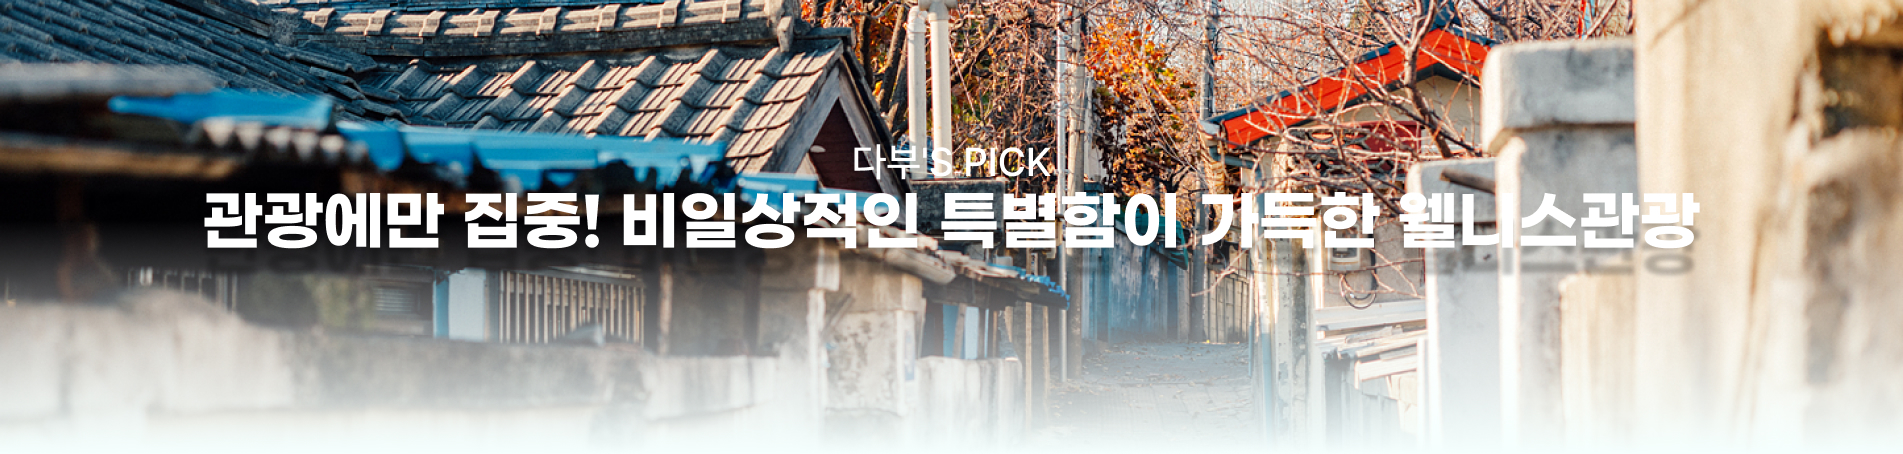
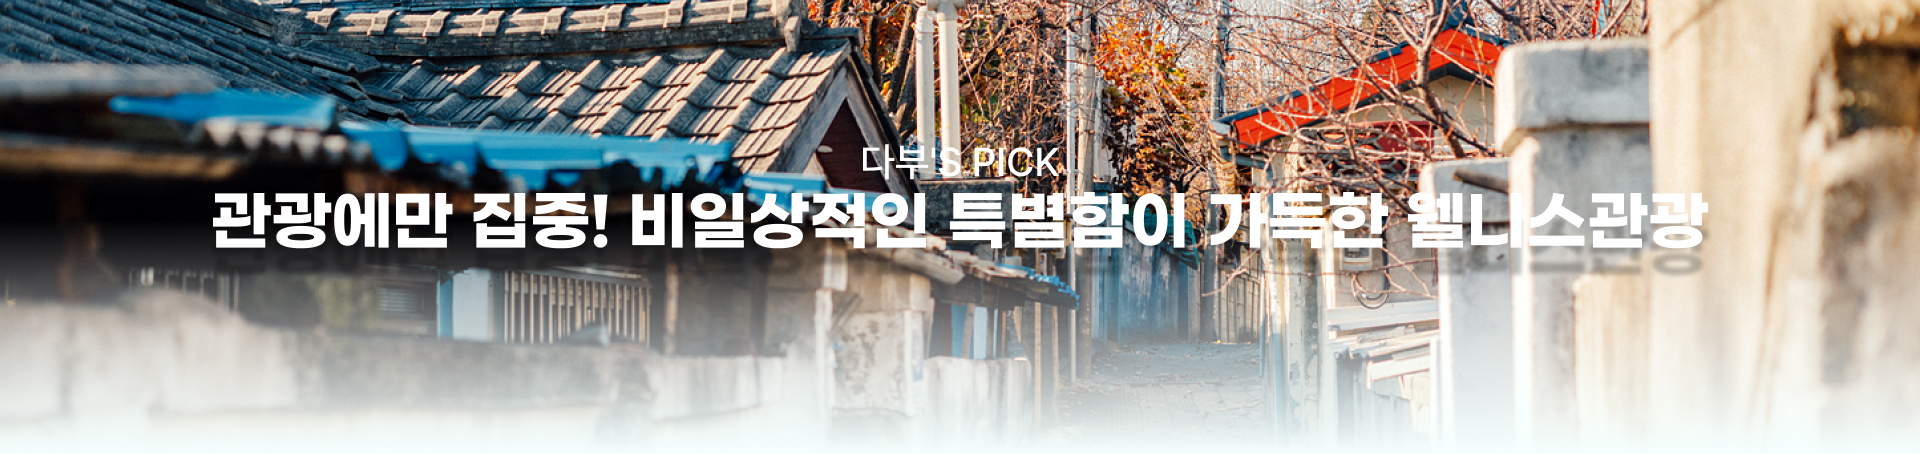
Add files via upload

diff --git a/org/org_org/style_org.css b/org/org_org/style_org.css
@@ -11,23 +11,16 @@
 /* 헤더 반응형으로 수정 필요 */
 .header {
     display: flex;
-    margin: auto;
     width: 100%;
-    /* 반응형 연습 */
-    /* position: relative;
-    height: 0;
-    padding-bottom: 25%;
-    overflow: hidden; */
 }
 
 .header>img {
     position: relative;
     z-index: -1;
     display: block;
-    margin-left: auto;
-    margin-right: auto;
-    width: 1920px;
-    height: 454px;
+    max-width: 100%;
+    height: auto;
+    margin: auto;
     padding-bottom: 167px;
 
     /* 반응형 연습 */

diff --git a/pick/style_course.css b/pick/style_course.css
@@ -32,6 +32,7 @@
 /* 코스 */
 .course_info {
     width: 100%;
+    max-width: 100%;
     padding-top: 102px;
     padding-bottom: 94px;
     display: flex;
@@ -46,7 +47,7 @@
 /* Day */
 .line {
     background: #F2F2F28C;
-    width: 100%;
+    width: 1920px;
     max-width: 100%;
     height: 91px;
     margin-bottom: 106px;
@@ -78,7 +79,6 @@
 /* 본문 */
 .section {
     height: 393px;
-    width: 1920px;
     max-width: 100%;
 }
 
